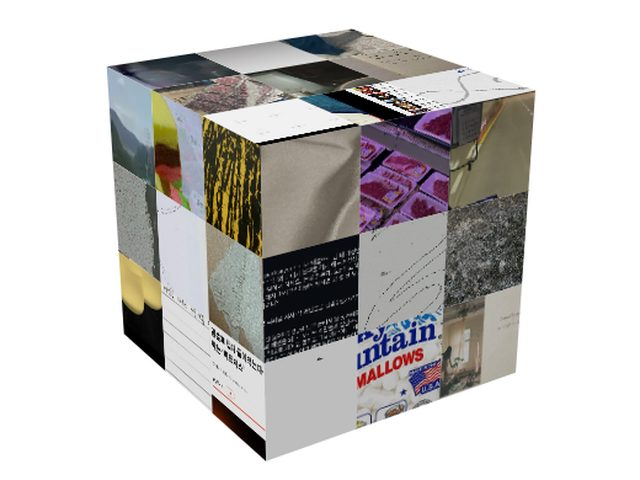
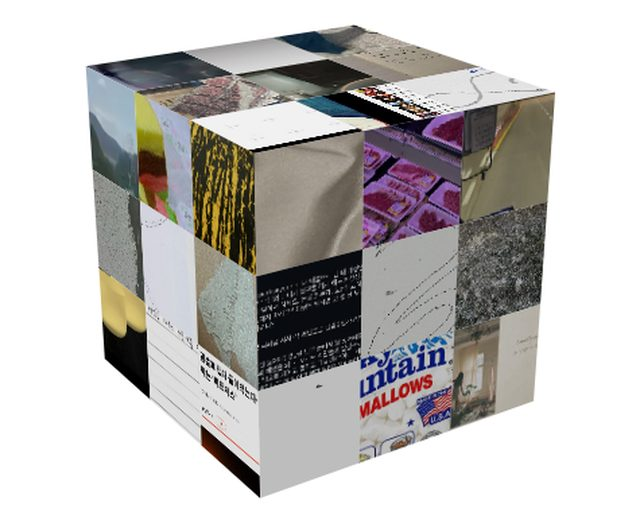
feat: 작업 칸 키우고 흰 벽, 끝에서 한 칸 띄움, 오른쪽 글 상자 자리

Changed region(s): [[0.125, 0.0312, 0.875, 0.9688]]

diff --git a/index.html b/index.html
@@ -40,21 +40,17 @@ header {
 @media (hover: hover) { .box:hover .face span { opacity: 1 } }
 .box:focus-visible .face span { opacity: 1 }
 
-/* 벽 = 가장자리 한 줄을 늘린 색 + 바닥 쪽으로 어둡게 */
+/* 벽 = 흰색 */
+.wt, .wb, .wl, .wr { background: #fff }
 .wt, .wb { left: 0; right: 0 }
 .wl, .wr { top: 0; bottom: 0 }
-.wt { top: 0; transform-origin: top; transform: rotateX(90deg);
-  background-image: linear-gradient(to top, rgba(0,0,0,.05), rgba(0,0,0,.55)), var(--img);
-  background-size: 100% 100%, 100% 6000%; background-position: 0 0, top }
-.wb { bottom: 0; transform-origin: bottom; transform: rotateX(-90deg);
-  background-image: linear-gradient(to bottom, rgba(0,0,0,.05), rgba(0,0,0,.55)), var(--img);
-  background-size: 100% 100%, 100% 6000%; background-position: 0 0, bottom }
-.wl { left: 0; transform-origin: left; transform: rotateY(-90deg);
-  background-image: linear-gradient(to left, rgba(0,0,0,.05), rgba(0,0,0,.55)), var(--img);
-  background-size: 100% 100%, 6000% 100%; background-position: 0 0, left }
-.wr { right: 0; transform-origin: right; transform: rotateY(90deg);
-  background-image: linear-gradient(to right, rgba(0,0,0,.05), rgba(0,0,0,.55)), var(--img);
-  background-size: 100% 100%, 6000% 100%; background-position: 0 0, right }
+.wt { top: 0; transform-origin: top; transform: rotateX(90deg) }
+.wb { bottom: 0; transform-origin: bottom; transform: rotateX(-90deg) }
+.wl { left: 0; transform-origin: left; transform: rotateY(-90deg) }
+.wr { right: 0; transform-origin: right; transform: rotateY(90deg) }
+
+/* 글 상자 — 오른쪽 끝, 위 한 줄 띄고 5줄 */
+#note { position: absolute; background: #fff; overflow: auto }
 </style>
 </head>
 <body>
@@ -72,38 +68,51 @@ const WORKS = [
   { img: 'w/weave.jpg', name: '해체 직조', sub: 'workshop 2', href: 'https://y0useunghyun.github.io/workshop2/' },
   { img: 'w/cube.jpg',  name: '큐브',  sub: 'workshop 2', href: 'https://y0useunghyun.github.io/workshop2/cube.html' },
 ];
-const BIG_W = 4, BIG_H = 3;   // 작업 칸 크기 (사진 칸 기준)
+const BIG_W = 5, BIG_H = 4;   // 작업 칸 크기 (사진 칸 기준)
+const NOTE_H = 5;             // 글 상자 높이 (줄)
+const NOTE_RATIO = 0.22;      // 글 상자 폭 (화면 폭 대비, 최소 4칸)
 const LIFT = 0.9;             // 작업이 올라온 높이 (사진 칸 한 변 대비)
-const TRIES = 400;
+const EDGE = 1;               // 작업은 화면 끝에서 이만큼 칸을 띄움 — 올라오며 커져도 안 잘리게
+const ROUNDS = 300, TRIES = 60;
 
 const stage = document.getElementById('stage');
 const floor = document.getElementById('floor');
 
 const pad = n => String(n).padStart(3, '0');
 const el = (tag, cls, style) => Object.assign(document.createElement(tag), { className: cls, style });
+// 사각형 a, b가 gap 칸 이내로 붙거나 겹치는지
+const near = (a, b, gap) => a.c < b.c + b.w + gap && b.c < a.c + a.w + gap && a.r < b.r + b.h + gap && b.r < a.r + a.h + gap;
 
-// 작업 4개를 서로 붙지 않게 무작위 배치
-function placeWorks(cols, rows) {
-  const taken = [];
-  const hit = (a, b) => a.c < b.c + BIG_W + 1 && b.c < a.c + BIG_W + 1 && a.r < b.r + BIG_H + 1 && b.r < a.r + BIG_H + 1;
-  for (let t = 0; t < TRIES && taken.length < WORKS.length; t++) {
-    const p = { c: Math.floor(Math.random() * (cols - BIG_W + 1)), r: Math.floor(Math.random() * (rows - BIG_H + 1)) };
-    if (!taken.some(q => hit(p, q))) taken.push(p);
+// 작업 4개를 화면 끝·글 상자·서로에게서 한 칸씩 띄워 무작위 배치
+function placeWorks(cols, rows, note) {
+  const maxC = cols - BIG_W - EDGE, maxR = rows - BIG_H - EDGE;
+  let best = [];
+  for (let round = 0; round < ROUNDS && best.length < WORKS.length; round++) {
+    const taken = [];
+    for (let t = 0; t < TRIES && taken.length < WORKS.length; t++) {
+      const p = { c: EDGE + Math.floor(Math.random() * (maxC - EDGE + 1)), r: EDGE + Math.floor(Math.random() * (maxR - EDGE + 1)), w: BIG_W, h: BIG_H };
+      if (!near(p, note, 1) && !taken.some(q => near(p, q, 1))) taken.push(p);
+    }
+    if (taken.length > best.length) best = taken;
   }
-  return taken;
+  return best;
 }
 
 function layout() {
   const W = stage.clientWidth, H = stage.clientHeight;
-  const total = N + WORKS.length * BIG_W * BIG_H;
-  const cols = Math.max(BIG_W, Math.round(W / Math.sqrt(W * H / total)));
-  const rows = Math.max(BIG_H, Math.ceil(total / cols));
+  const guess = N + WORKS.length * BIG_W * BIG_H + 4 * NOTE_H;
+  const cols = Math.max(BIG_W + 2 * EDGE, Math.round(W / Math.sqrt(W * H / guess)));
+  const noteW = Math.max(4, Math.round(cols * NOTE_RATIO));
+  // 사진 142장이 다 들어가도록 글 상자 폭까지 넣고 줄 수 계산
+  const total = N + WORKS.length * BIG_W * BIG_H + noteW * NOTE_H;
+  const rows = Math.max(BIG_H + 2 * EDGE, NOTE_H + 1, Math.ceil(total / cols));
   const cw = W / cols, ch = H / rows;
   const lift = Math.min(cw, ch) * LIFT;
 
-  const spots = placeWorks(cols, rows);
+  const note = { c: cols - noteW, r: 1, w: noteW, h: NOTE_H };
+  const spots = placeWorks(cols, rows, note);
   const used = new Set();
-  spots.forEach(p => { for (let r = p.r; r < p.r + BIG_H; r++) for (let c = p.c; c < p.c + BIG_W; c++) used.add(r * cols + c); });
+  for (const p of [note, ...spots]) for (let r = p.r; r < p.r + p.h; r++) for (let c = p.c; c < p.c + p.w; c++) used.add(r * cols + c);
 
   const frag = document.createDocumentFragment();
   let i = 0;
@@ -128,21 +137,20 @@ function layout() {
     frag.appendChild(box);
   });
 
+  const noteEl = el('div', '', `left:${note.c * cw}px;top:${note.r * ch}px;width:${note.w * cw}px;height:${note.h * ch}px`);
+  noteEl.id = 'note';
+  noteEl.innerHTML = noteHTML;
+  frag.appendChild(noteEl);
+
   floor.replaceChildren(frag);
 }
+
+// 글 상자 내용 — 여기에 글 넣기
+const noteHTML = '';
 
 layout();
 let timer;
 addEventListener('resize', () => { clearTimeout(timer); timer = setTimeout(layout, 150); });
-
-// 마우스 따라 보는 위치가 살짝 움직임 (컴퓨터에서만)
-if (matchMedia('(pointer: fine)').matches) {
-  addEventListener('pointermove', e => {
-    const x = 50 + (e.clientX / innerWidth - .5) * 30;
-    const y = 50 + (e.clientY / innerHeight - .5) * 30;
-    stage.style.perspectiveOrigin = `${x}% ${y}%`;
-  });
-}
 </script>
 </body>
 </html>
